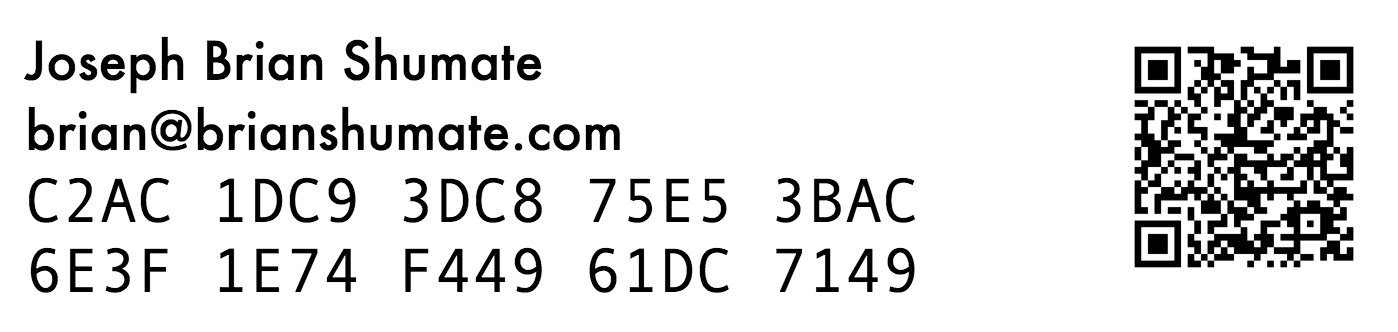
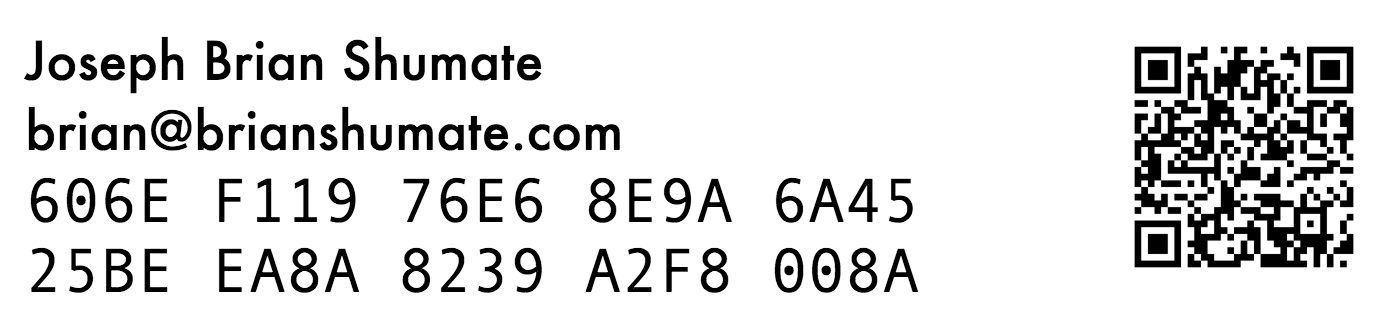
Update GPG info

diff --git a/articles/5/index.html b/articles/5/index.html
@@ -1,5 +1,5 @@
-<!DOCTYPE html><html><head><title>All Articles | Brian Shumate</title><meta charset="utf-8"><meta http-equiv="x-ua-compatible" content="ie=edge"><meta name="viewport" content="width=device-width, initial-scale=1.0"><link rel="apple-touch-icon-precomposed" sizes="57x57" href="/img/apple-touch-icon-57x57.png"><link rel="apple-touch-icon-precomposed" sizes="114x114" href="/img/apple-touch-icon-114x114.png"><link rel="apple-touch-icon-precomposed" sizes="72x72" href="/img/apple-touch-icon-72x72.png"><link rel="apple-touch-icon-precomposed" sizes="144x144" href="/img/apple-touch-icon-144x144.png"><link rel="apple-touch-icon-precomposed" sizes="60x60" href="/img/apple-touch-icon-60x60.png"><link rel="apple-touch-icon-precomposed" sizes="120x120" href="/img/apple-touch-icon-120x120.png"><link rel="apple-touch-icon-precomposed" sizes="76x76" href="/img/apple-touch-icon-76x76.png"><link rel="apple-touch-icon-precomposed" sizes="152x152" href="/img/apple-touch-icon-152x152.png"><link rel="icon" type="image/png" href="/img/favicon-196x196.png" sizes="196x196"><link rel="icon" type="image/png" href="/img/favicon-96x96.png" sizes="96x96"><link rel="icon" type="image/png" href="/img/favicon-32x32.png" sizes="32x32"><link rel="icon" type="image/png" href="/img/favicon-16x16.png" sizes="16x16"><link rel="icon" type="image/png" href="/img/favicon-128.png" sizes="128x128"><meta name="application-name" content="Brian Shumate"><meta name="msapplication-TileColor" content="#F5AB35"><meta name="msapplication-TileImage" content="/img/mstile-144x144.png"><meta name="msapplication-square70x70logo" content="/img/mstile-70x70.png"><meta name="msapplication-square150x150logo" content="/img/mstile-150x150.png"><meta name="msapplication-wide310x150logo" content="/img/mstile-310x150.png"><meta name="msapplication-square310x310logo" content="/img/mstile-310x310.png"><script src="//use.edgefonts.net/orbitron.js"></script><link rel="stylesheet" href="/css/foundation.css"><link rel="stylesheet" href="/css/foundation-icons.css"><link rel="stylesheet" href="/css/prism.css"><link rel="stylesheet" href="/css/app.css"></head><body><header><div class="top-bar"><div class="top-bar-left"><ul class="menu"><li class="menu-text"><a href="/"><img src="/img/brand.svg" width="24" height="24" class="svg-inject brand-all"><span>Brian </span><span>Shumate</span></a></li></ul></div><div class="top-bar-right"><ul class="menu"><li><a href="/about/">About</a></li><li><a href="/articles/">Articles</a></li><li><a href="/now/">Now</a></li><li><a href="/projects/">Projects</a></li></ul></div></div></header><div id="main-callout" class="callout large primary"><div class="row column text-center"><h1 id="brian-shumate"><a class="heading-anchor" href="#brian-shumate"><span></span></a>Brian Shumate</h1><h2 id="art--data--boards--water"><a class="heading-anchor" href="#art--data--boards--water"><span></span></a>Art &#x2042; Data &#x2042; Boards &#x2042; Water</h2></div></div><div class="row"><div class="large-12 columns"><h1 id="all-articles"><a class="heading-anchor" href="#all-articles"><span></span></a>All Articles</h1></div><hr><div class="large-8 columns"><div id="articles"><article><nav><a href="/articles/6/index.html" class="button secondary hollow"><i class="fi-arrow-left"> </i>&#xA0;&#xA0;Older</a><a href="/articles/4/index.html" class="button secondary hollow">Newer&#xA0;&#xA0;<i class="fi-arrow-right"> </i></a></nav><div class="row"><div class="large-6 columns"><a href="/articles/freebsd-xen-hvm-domu"><img src="/articles/freebsd-xen-hvm-domu/featured.png" alt="" class="thumbnail"></a></div><div class="large-6 columns excerpt"><h5 id="freebsd-xen-hvm-domu"><a class="heading-anchor" href="#freebsd-xen-hvm-domu"><span></span></a><a href="/articles/freebsd-xen-hvm-domu">FreeBSD Xen HVM DomU</a></h5><p><span class="byline">By Brian on </span><span class="published">January 4th, 2012</span></p><p>Notes on setting up a FreeBSD Xen HVM DomU</p></div></div><hr><div class="row"><div class="large-6 columns"><a href="/articles/diaspora-on-freebsd"><img src="/articles/diaspora-on-freebsd/featured.png" alt="" class="thumbnail"></a></div><div class="large-6 columns excerpt"><h5 id="diaspora-on-freebsd"><a class="heading-anchor" href="#diaspora-on-freebsd"><span></span></a><a href="/articles/diaspora-on-freebsd">Diaspora on FreeBSD</a></h5><p><span class="byline">By Brian on </span><span class="published">January 4th, 2012</span></p><p>This is a small collection of brief notes and specs for installing a Diaspora* project pod instance on
-FreeBSD 8.2, which is the setup I am&#x2026;</p></div></div><hr><div class="row"><div class="large-6 columns"><a href="/articles/nan-cat"><img src="/articles/nan-cat/featured.png" alt="" class="thumbnail"></a></div><div class="large-6 columns excerpt"><h5 id="nan-cat"><a class="heading-anchor" href="#nan-cat"><span></span></a><a href="/articles/nan-cat">NaN Cat</a></h5><p><span class="byline">By Brian on </span><span class="published">September 18th, 2011</span></p><p>Not a number cat is my proposed tongue-in-cheek feline-based unofficial
+<!DOCTYPE html><html><head><title>All Articles | Brian Shumate</title><meta charset="utf-8"><meta http-equiv="x-ua-compatible" content="ie=edge"><meta name="viewport" content="width=device-width, initial-scale=1.0"><link rel="apple-touch-icon-precomposed" sizes="57x57" href="/img/apple-touch-icon-57x57.png"><link rel="apple-touch-icon-precomposed" sizes="114x114" href="/img/apple-touch-icon-114x114.png"><link rel="apple-touch-icon-precomposed" sizes="72x72" href="/img/apple-touch-icon-72x72.png"><link rel="apple-touch-icon-precomposed" sizes="144x144" href="/img/apple-touch-icon-144x144.png"><link rel="apple-touch-icon-precomposed" sizes="60x60" href="/img/apple-touch-icon-60x60.png"><link rel="apple-touch-icon-precomposed" sizes="120x120" href="/img/apple-touch-icon-120x120.png"><link rel="apple-touch-icon-precomposed" sizes="76x76" href="/img/apple-touch-icon-76x76.png"><link rel="apple-touch-icon-precomposed" sizes="152x152" href="/img/apple-touch-icon-152x152.png"><link rel="icon" type="image/png" href="/img/favicon-196x196.png" sizes="196x196"><link rel="icon" type="image/png" href="/img/favicon-96x96.png" sizes="96x96"><link rel="icon" type="image/png" href="/img/favicon-32x32.png" sizes="32x32"><link rel="icon" type="image/png" href="/img/favicon-16x16.png" sizes="16x16"><link rel="icon" type="image/png" href="/img/favicon-128.png" sizes="128x128"><meta name="application-name" content="Brian Shumate"><meta name="msapplication-TileColor" content="#F5AB35"><meta name="msapplication-TileImage" content="/img/mstile-144x144.png"><meta name="msapplication-square70x70logo" content="/img/mstile-70x70.png"><meta name="msapplication-square150x150logo" content="/img/mstile-150x150.png"><meta name="msapplication-wide310x150logo" content="/img/mstile-310x150.png"><meta name="msapplication-square310x310logo" content="/img/mstile-310x310.png"><script src="//use.edgefonts.net/orbitron.js"></script><link rel="stylesheet" href="/css/foundation.css"><link rel="stylesheet" href="/css/foundation-icons.css"><link rel="stylesheet" href="/css/prism.css"><link rel="stylesheet" href="/css/app.css"></head><body><header><div class="top-bar"><div class="top-bar-left"><ul class="menu"><li class="menu-text"><a href="/"><img src="/img/brand.svg" width="24" height="24" class="svg-inject brand-all"><span>Brian </span><span>Shumate</span></a></li></ul></div><div class="top-bar-right"><ul class="menu"><li><a href="/about/">About</a></li><li><a href="/articles/">Articles</a></li><li><a href="/now/">Now</a></li><li><a href="/projects/">Projects</a></li></ul></div></div></header><div id="main-callout" class="callout large primary"><div class="row column text-center"><h1 id="brian-shumate"><a class="heading-anchor" href="#brian-shumate"><span></span></a>Brian Shumate</h1><h2 id="art--data--boards--water"><a class="heading-anchor" href="#art--data--boards--water"><span></span></a>Art &#x2042; Data &#x2042; Boards &#x2042; Water</h2></div></div><div class="row"><div class="large-12 columns"><h1 id="all-articles"><a class="heading-anchor" href="#all-articles"><span></span></a>All Articles</h1></div><hr><div class="large-8 columns"><div id="articles"><article><nav><a href="/articles/6/index.html" class="button secondary hollow"><i class="fi-arrow-left"> </i>&#xA0;&#xA0;Older</a><a href="/articles/4/index.html" class="button secondary hollow">Newer&#xA0;&#xA0;<i class="fi-arrow-right"> </i></a></nav><div class="row"><div class="large-6 columns"><a href="/articles/diaspora-on-freebsd"><img src="/articles/diaspora-on-freebsd/featured.png" alt="" class="thumbnail"></a></div><div class="large-6 columns excerpt"><h5 id="diaspora-on-freebsd"><a class="heading-anchor" href="#diaspora-on-freebsd"><span></span></a><a href="/articles/diaspora-on-freebsd">Diaspora on FreeBSD</a></h5><p><span class="byline">By Brian on </span><span class="published">January 4th, 2012</span></p><p>This is a small collection of brief notes and specs for installing a Diaspora* project pod instance on
+FreeBSD 8.2, which is the setup I am&#x2026;</p></div></div><hr><div class="row"><div class="large-6 columns"><a href="/articles/freebsd-xen-hvm-domu"><img src="/articles/freebsd-xen-hvm-domu/featured.png" alt="" class="thumbnail"></a></div><div class="large-6 columns excerpt"><h5 id="freebsd-xen-hvm-domu"><a class="heading-anchor" href="#freebsd-xen-hvm-domu"><span></span></a><a href="/articles/freebsd-xen-hvm-domu">FreeBSD Xen HVM DomU</a></h5><p><span class="byline">By Brian on </span><span class="published">January 4th, 2012</span></p><p>Notes on setting up a FreeBSD Xen HVM DomU</p></div></div><hr><div class="row"><div class="large-6 columns"><a href="/articles/nan-cat"><img src="/articles/nan-cat/featured.png" alt="" class="thumbnail"></a></div><div class="large-6 columns excerpt"><h5 id="nan-cat"><a class="heading-anchor" href="#nan-cat"><span></span></a><a href="/articles/nan-cat">NaN Cat</a></h5><p><span class="byline">By Brian on </span><span class="published">September 18th, 2011</span></p><p>Not a number cat is my proposed tongue-in-cheek feline-based unofficial
 JavaScript mascot...</p></div></div><hr><div class="row"><div class="large-6 columns"><a href="/articles/maps-with-public-data"><img src="/articles/maps-with-public-data/featured.jpg" alt="" class="thumbnail"></a></div><div class="large-6 columns excerpt"><h5 id="maps-with-public-data"><a class="heading-anchor" href="#maps-with-public-data"><span></span></a><a href="/articles/maps-with-public-data">Maps with Public Data</a></h5><p><span class="byline">By Brian on </span><span class="published">September 12th, 2011</span></p><p>I&apos;ve been having a great time working with public data and maps lately.
 The main reason that it has been so much fun revolves around the&#x2026;</p></div></div><hr><div class="row"><div class="large-6 columns"><a href="/articles/recursive-qr-code"><img src="/articles/recursive-qr-code/featured.png" alt="" class="thumbnail"></a></div><div class="large-6 columns excerpt"><h5 id="recursive-qr-code"><a class="heading-anchor" href="#recursive-qr-code"><span></span></a><a href="/articles/recursive-qr-code">Recursive QR Code</a></h5><p><span class="byline">By Brian on </span><span class="published">July 23rd, 2011</span></p><p>The pet rock of early Web 2.0 &#x2014; a recursive QR code is a strange little thing
 that some weirdos just have to possess.</p></div></div><hr><nav><a href="/articles/6/index.html" class="button secondary hollow"><i class="fi-arrow-left"> </i>&#xA0;&#xA0;Older</a><a href="/articles/4/index.html" class="button secondary hollow">Newer&#xA0;&#xA0;<i class="fi-arrow-right"> </i></a></nav></article></div></div><div class="medium-4 columns"><h2 id="side-notes"><a class="heading-anchor" href="#side-notes"><span></span></a>RELATED THINGS</h2><div class="callout secondary"><p><a href="http://ninjas-and-rockstars.brianshumate.com" title="Ninjas and Rockstars">Ninjas and Rockstars</a></p><p><a href="http://ninjas-and-rockstars.brianshumate.com" title="Ninjas and Rockstars"><img src="/img/ninjas-and-rockstars.png" alt="Ninjas and Rockstars"></a></p><p class="lead">Nothing like a headcount full of resources to program your unicorn!</p><p class="subheader">Whether we&apos;re in a tech bulge or bubble, there is no doubt that computering for money sure inspires strange haiku...</p></div></div><div class="row column"></div></div><div class="row"><div style="border-right: 1px solid #E3E5E8;" class="large-8 columns"></div></div></body><hr class="dotted"><footer><div class="row expanded callout secondary"><div class="large-4 columns"><h5 id="-photographie"><a class="heading-anchor" href="#-photographie"><span></span></a><i class="fi-camera"> </i>PHOTOGRAPHIE</h5><div class="row small-up-4"><div class="column"><a href="https://500px.com/photo/128380667/the-mist-by-brian-shumate"><img src="/img/500px/stock-photo-128380667.jpg" alt="500px thumbnail" height="140" width="140" class="thumbnail"></a></div><div class="column"><a href="https://500px.com/photo/92822883/orb-by-brian-shumate"><img src="/img/500px/stock-photo-128380669.jpg" alt="500px thumbnail" height="140" width="140" class="thumbnail"></a></div><div class="column"><a href="https://500px.com/photo/128380671/bee-by-brian-shumate"><img src="/img/500px/stock-photo-128380671.jpg" alt="500px thumbnail" height="140" width="140" class="thumbnail"></a></div><div class="column"><a href="https://500px.com/photo/128380673/cicada-by-brian-shumate"><img src="/img/500px/stock-photo-128380673.jpg" alt="500px thumbnail" height="140" width="140" class="thumbnail"></a></div><div class="column"><a href="https://500px.com/photo/128380675/butterfly-by-brian-shumate"><img src="/img/500px/stock-photo-128380675.jpg" alt="500px thumbnail" height="140" width="140" class="thumbnail"></a></div><div class="column"><a href="https://500px.com/photo/128380677/foggy-fall-by-brian-shumate"><img src="/img/500px/stock-photo-128380677.jpg" alt="500px thumbnail" height="140" width="140" class="thumbnail"></a></div><div class="column"><a href="https://500px.com/photo/128380679/old-homestead-by-brian-shumate"><img src="/img/500px/stock-photo-128380679.jpg" alt="500px thumbnail" height="140" width="140" class="thumbnail"></a></div><div class="column"><a href="https://500px.com/photo/128380695/foggy-morning-by-brian-shumate"><img src="/img/500px/stock-photo-128380695.jpg" alt="500px thumbnail" height="140" width="140" class="thumbnail"></a></div></div></div><div class="large-4 columns"><h5 id="choses-sociales"><a class="heading-anchor" href="#choses-sociales"><span></span></a><i class="fi-at-sign"></i>CHOSES SOCIALES<br><a href="https://twitter.com/brianshumate" title="Brian Shumate on Twitter"><i class="fi-social-twitter size-60"></i></a><a href="https://github.com/brianshumate" title="Brian Shumate on GitHub"><i class="fi-social-github size-60"></i></a><a href="https://500px.com/brianshumate" title="Brian Shumate on 500px"><i class="fi-social-500px size-60"></i></a><a href="https://keybase.io/brianshumate" title="Brian Shumate on Keybase.io"><i class="fi-key size-60"></i></a></h5></div><div class="large-4 columns"><h5 id="de-la-fort"><a class="heading-anchor" href="#de-la-fort"><span></span></a><i class="fi-trees"></i>DE LA FOR&#xCA;T</h5><div id="hdt-quote" class="callout"><bloqckquote class="jsgood"><p>&#x201C;We must walk consciously only part way toward our goal, and then leap in the dark to our success.&#x201D;<br><br>&#x2014;Henry David Thoreau</p></bloqckquote><noscript><bloqckquote><p>&#x201C;We must walk consciously only part way toward our goal, and then leap in the dark to our success.&#x201D;<br><br>&#x2014;Henry David Thoreau</p></bloqckquote></noscript><p></p></div></div></div><div class="row expanded"><div class="medium-6 columns"><ul class="menu"><li><a href="/about/">About</a></li><li><a data-open="disclaimerModal">Disclaimer</a></li><li><a data-open="gpgModal">GPG</a></li><li><a href="/license/">License</a></li></ul></div><div class="medium-6 columns"><ul class="menu align-right"><li class="menu-text">Copyright &#xA9; 2017 Brian Shumate</li></ul></div></div></footer><div id="disclaimerModal" data-reveal="" class="large reveal"><h1 id="disclaimer"><a class="heading-anchor" href="#disclaimer"><span></span></a><i class="fi-info"></i>DISCLAIMER</h1><p class="lead">This is a personal website comprised of personally held opinions. All content provided on this website is for informational purposes only. Brian Shumate makes no representations as to accuracy, completeness, suitability, or validity of any information on this website and will not be liable for any errors, omissions, or delays in this information or any losses, injuries, or damages arising from its display or use. All information is provided on an as-is basis. Terms are subject to change at any time and without notice.</p><button data-close="" aria-label="Close reveal" type="button" class="close-button"><span aria-hidden="true"><i class="fi-x"></i></span></button></div><div id="gpgModal" data-reveal="" class="large reveal"><h4 id="c2ac-1dc9-3dc8-75e5-3bac-6e3f-1e74-f449-61dc-7149"><a class="heading-anchor" href="#c2ac-1dc9-3dc8-75e5-3bac-6e3f-1e74-f449-61dc-7149"><span></span></a><i class="fi-key"></i>C2AC 1DC9 3DC8 75E5 3BAC 6E3F 1E74 F449 61DC 7149</h4><p class="lead">This is my current personal GPG public key fingerprint and QR code link<a href="https://pgp.mit.edu/pks/lookup?op=get&amp;search=0xEA8A8239A2F8008A"> to my public key on the MIT PGP keyserver.<img src="/img/Joseph_Brian_Shumate-key.png" alt="Joseph Brian Shumate GPG key fingerprint"></a></p><button data-close="" aria-label="Close reveal" type="button" class="close-button"><span aria-hidden="true"><i class="fi-x"></i></span></button></div><script src="/js/main.min.js"></script><script src="//static.getclicky.com/js" type="text/javascript"></script><script type="text/javascript">try{ clicky.init(100614799); }catch(e){}</script><noscript><p><img alt="Clicky" width="1" height="1" src="//in.getclicky.com/100614799ns.gif"></p></noscript><script>(function(){
